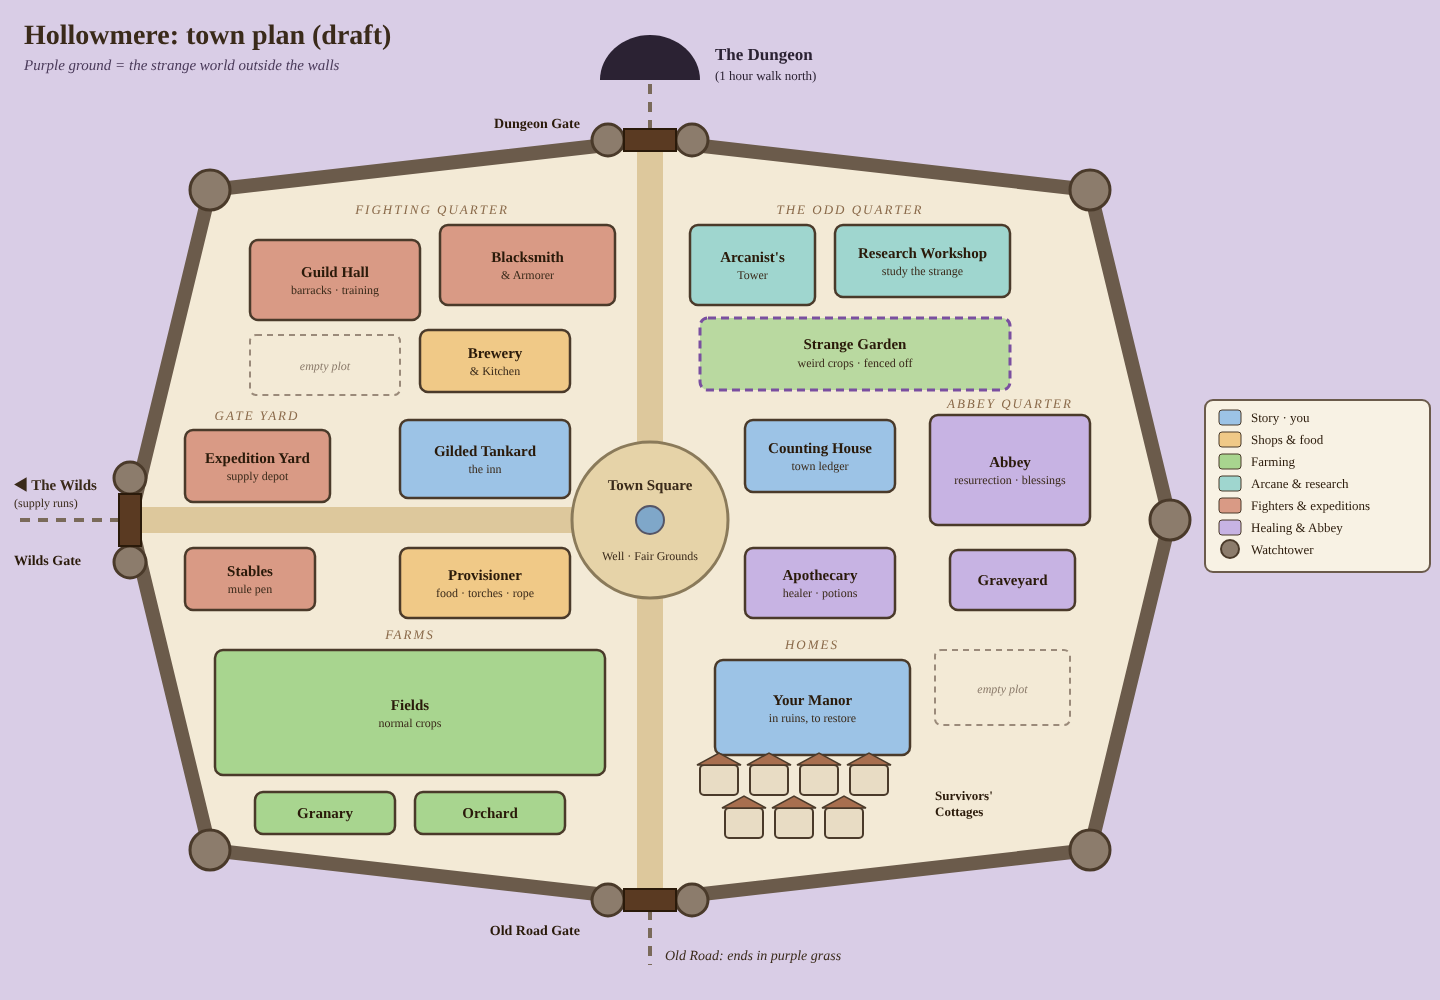
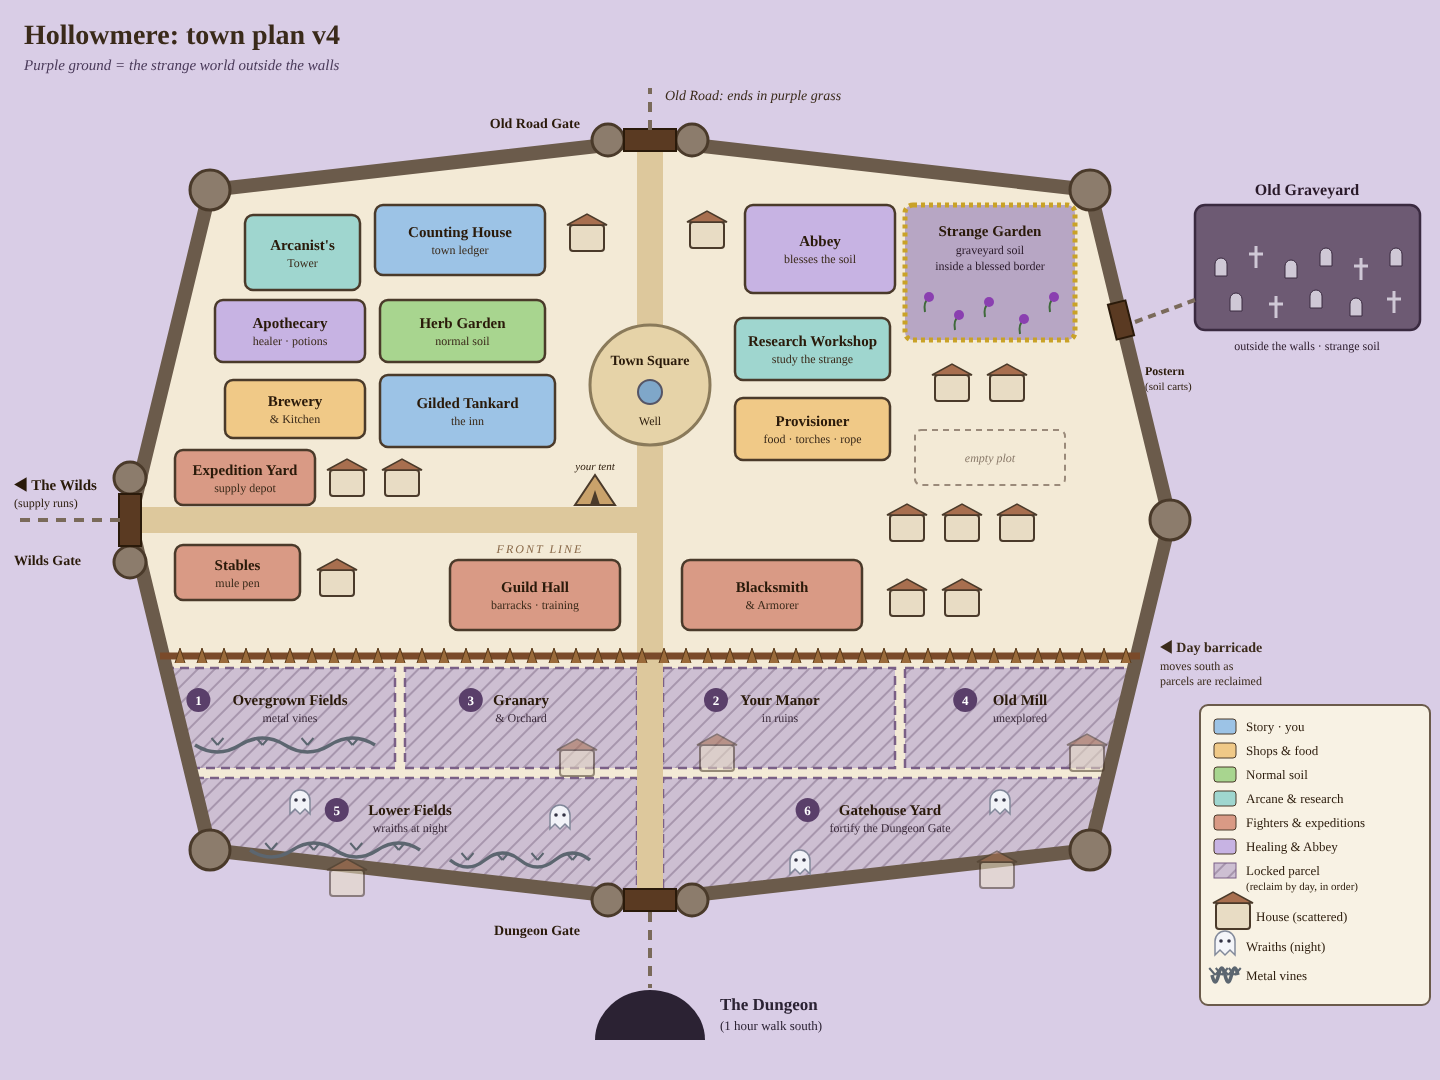
Town plan v4: dungeon to the south, locked southern parcels, old graveyard soil
Claude-Session: https://claude.ai/code/session_01NvFAa9nga9ook5zdC6nh3r

diff --git a/docs/GAME_DESIGN.md b/docs/GAME_DESIGN.md
@@ -299,20 +299,37 @@ Back home, the town is smoking. Doors are broken in, the fields are trampled, th
 - The prologue does the heavy lifting, then the tone shifts to rebuilding, humour, and small wins.
 - References for "dark story, cozy play": *Graveyard Keeper*, *Dredge*, *Spiritfarer*, *Cult of the Lamb*.
 
-## 15. Town plan (v0.5)
+## 15. Town plan (v0.6)
 
 ![Hollowmere town plan](town_map.png)
 
 Source: [town_map.svg](town_map.svg). The outer line is the town wall, with watchtowers on the corners.
 
-- **Gates:** *Dungeon Gate* (north, road to the dungeon), *Wilds Gate* (west, supply runs), *Old Road Gate* (south; the road now ends in purple grass, a constant reminder that home is gone).
-- **Districts (v2, rezoned so each quarter has one job):**
-  - **Fighting Quarter** (NW, by the Dungeon Gate): Guild Hall, Blacksmith & Armorer.
-  - **The Odd Quarter** (NE): Arcanist's Tower, Research Workshop, and the **Strange Garden, fenced off** and kept away from homes, since nobody knows what grows there.
-  - **Market** (centre): Town Square, Gilded Tankard with the Brewery & Kitchen behind it, Provisioner, Counting House.
-  - **Gate Yard** (W, by the Wilds Gate): Expedition Yard, Stables (the mules go out on supply runs).
-  - **Abbey Quarter** (E): Abbey, Graveyard, Apothecary (healing in one place).
-  - **Farms** (SW): Fields, Granary, Orchard.
-  - **Homes** (SE): Your Manor, Survivors' Cottages.
-  - **Empty plots** are left for later buildings.
-- Everything starts in ruins and is rebuilt one by one.
+### 15.1 Layout
+- **The dungeon is to the south.** *Dungeon Gate* (south), *Wilds Gate* (west, supply runs), *Old Road Gate* (north; the road ends in purple grass), and a small *Postern* (north-east) for soil carts to and from the Old Graveyard.
+- **North half = the safe core** you start in: Town Square (your tent next to it at first), Gilded Tankard + Brewery & Kitchen, Counting House, Provisioner, Arcanist's Tower, Research Workshop, Apothecary, Herb Garden, Abbey, Strange Garden, Expedition Yard, Stables.
+- **Front line**, just above the barricade: Guild Hall and Blacksmith & Armorer, facing the dungeon side.
+- **Houses are scattered all over town**, including inside the locked parcels (survivors may be hiding there).
+- **Day barricade:** a palisade across the middle of town. It moves south as you reclaim parcels.
+
+### 15.2 Southern parcels (locked, reclaimed one by one during the day)
+| # | Parcel | Side | What blocks it / what you get |
+|---|---|---|---|
+| 1 | **Overgrown Fields** | SW | Covered in **metal-like vines**. Needs a way to cut or dissolve them (research + blacksmith). Unlocks normal farming. |
+| 2 | **Your Manor** | SE | In ruins. Restore it and move out of the tent. |
+| 3 | **Granary & Orchard** | SW | Food storage, fruit trees. |
+| 4 | **Old Mill** | SE | Unexplored; a mystery. |
+| 5 | **Lower Fields** | SW | More vines, plus **wraiths that come out at night**. The big farming area. |
+| 6 | **Gatehouse Yard** | SE | Next to the Dungeon Gate. Fortify it before going after the dungeon. |
+
+- **Day:** clear vines, rebuild, farm. **Night:** wraiths come out and you deal with them (defend, or hunt them to make a parcel safe).
+- A parcel opens when its blocker is solved: the vines cleared and its wraiths dealt with.
+
+### 15.3 Strange soil and the Old Graveyard
+- The town's **Old Graveyard lies outside the walls** (north-east). The strange world has changed its soil; it's the only place that grows the **weird crops**.
+- You haul **graveyard soil** into town through the Postern to the **Strange Garden**, next to the Abbey.
+- **Never mix strange and normal soil.** The Strange Garden is fenced by a **blessed border** that the Abbey has to consecrate (and maybe renew from time to time). Every load of graveyard soil must be blessed before it comes in.
+- Ideas:
+  - What happens if they mix (a cart spills, a border fades)? Normal crops mutate, weird weeds spread, or something wakes up. A danger and also a way to discover new crops.
+  - Are the night wraiths connected to the graveyard? (Disturbed dead, angry that you're taking their soil?) This would tie the two mysteries together.
+  - Abbey upgrades: stronger blessings, a bigger Strange Garden, blessed tools.
